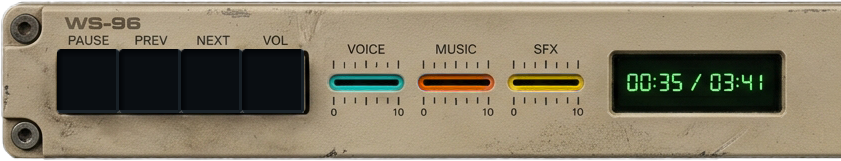
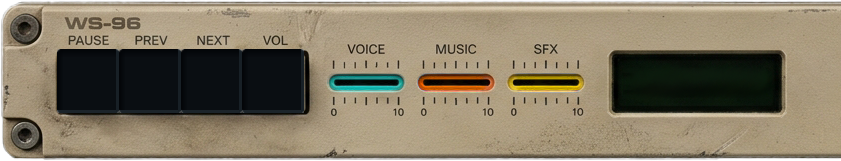
feat(ui): clean LCD texture, embed DSEG7 digital font and add sliding HUD autohide with overmove easing

Changed region(s): [[0.742, 0.4348, 0.9275, 0.5901]]

diff --git a/repo/index.html b/repo/index.html
@@ -1,0 +1,47 @@
+<!DOCTYPE html>
+<html lang="ru">
+<head>
+  <meta charset="UTF-8">
+  <meta name="viewport" content="width=device-width, initial-scale=1.0, maximum-scale=1.0, user-scalable=no, viewport-fit=cover">
+  <title>Хроники Продакшен-Ковчега • Интерактивный фильм</title>
+  <link rel="preconnect" href="https://fonts.googleapis.com">
+  <link rel="preconnect" href="https://fonts.gstatic.com" crossorigin>
+  <link href="https://fonts.googleapis.com/css2?family=Share+Tech+Mono&family=Orbitron:wght@500;700;900&family=Inter:wght@400;600;700&display=swap" rel="stylesheet">
+  <style>
+    html, body {
+      margin: 0;
+      padding: 0;
+      width: 100%;
+      height: 100%;
+      overflow: hidden;
+      background-color: #050508;
+      font-family: 'Inter', -apple-system, BlinkMacSystemFont, sans-serif;
+      user-select: none;
+      -webkit-user-select: none;
+      touch-action: none;
+    }
+    #game-canvas {
+      position: absolute;
+      top: 0;
+      left: 0;
+      width: 100%;
+      height: 100%;
+      display: block;
+    }
+  </style>
+  <style>
+    @font-face {
+      font-family: 'DSEG7 Classic';
[1 lines of base64/hex data omitted]
+      font-weight: bold;
+      font-style: normal;
+      font-display: swap;
+    }
+  </style>
+</head>
+<body>
+  <video id="intro-video" playsinline muted loop preload="auto" style="position: absolute; top: 0; left: 0; width: 100%; height: 100%; object-fit: cover; opacity: 0; pointer-events: none; transition: opacity 3.0s ease-in-out; z-index: 0;"></video>
+  <canvas id="game-canvas" style="position: absolute; top: 0; left: 0; width: 100%; height: 100%; z-index: 1;"></canvas>
+  <script type="module" src="/src/main.ts"></script>
+</body>
+</html>

diff --git a/repo/src/MovieApp.ts b/repo/src/MovieApp.ts
@@ -112,9 +112,11 @@ export class MovieApp {
   private _lastClickTime = 0;
   private _lastClickPos = { x: 0, y: 0 };
 
-  // Autohide
+  // Autohide & HUD Sliding
   private _autohideTimer = 2.5;
   private _isUiHovered = false;
+  private _hudAnimState = { p: 1.0 };
+  private _hudIsVisible = true;
 
   // State & Audio
   private _currentActIndex = 0;
@@ -669,6 +671,11 @@ export class MovieApp {
 
   private _resetAutohide(): void {
     this._autohideTimer = 2.5;
+    if (!this._hudIsVisible) {
+      this._hudIsVisible = true;
+      cancelTween(this._hudAnimState);
+      tween(this._hudAnimState, { p: 1.0 }, 0.45, ease.outBack);
+    }
     if (this._app.canvas) {
       this._app.canvas.style.cursor = 'default';
     }
@@ -1269,11 +1276,17 @@ export class MovieApp {
 
     // Digital LCD Screen
     const lcdStyle = new TextStyle({
-      fontFamily: ['Share Tech Mono', 'Courier New', 'monospace'],
-      fontSize: 16,
+      fontFamily: ['DSEG7 Classic', 'Share Tech Mono', 'monospace'],
+      fontSize: 14,
       fontWeight: 'bold',
-      fill: '#33ff77',
+      fill: '#8be194',
       letterSpacing: 2,
+      dropShadow: {
+        alpha: 0.55,
+        blur: 3,
+        color: '#33ff77',
+        distance: 0,
+      },
     });
     this._wsLcdText = new Text({ text: '00:00 / 00:00', style: lcdStyle });
     this._wsLcdText.anchor.set(0.5, 0.5);
@@ -2198,21 +2211,43 @@ export class MovieApp {
     const progress = Math.min(1, currentTime / Math.max(1, this._actDuration));
     this._renderProgressBar(progress);
 
-    // YouTube Autohide HUD logic
+    // Autohide HUD sliding logic (crawling away with easing & overmove)
     if (this._isPlaying && !this._isUiHovered && !this._isTimelineDragging) {
       this._autohideTimer = Math.max(0, this._autohideTimer - dt);
+      if (this._autohideTimer <= 0 && this._hudIsVisible) {
+        this._hudIsVisible = false;
+        cancelTween(this._hudAnimState);
+        tween(this._hudAnimState, { p: 0.0 }, 0.55, ease.inBack);
+      }
     } else {
+      if (!this._hudIsVisible) {
+        this._hudIsVisible = true;
+        cancelTween(this._hudAnimState);
+        tween(this._hudAnimState, { p: 1.0 }, 0.45, ease.outBack);
+      }
       this._autohideTimer = 2.5;
     }
 
-    const targetAlpha = this._autohideTimer > 0 ? 1.0 : 0.0;
-    this._playerBarContainer.alpha += (targetAlpha - this._playerBarContainer.alpha) * Math.min(1, dt * 7);
-    this._badgeText.alpha = this._playerBarContainer.alpha;
-    this._titleText.alpha = this._playerBarContainer.alpha;
-    this._subtitleText.alpha = this._playerBarContainer.alpha;
+    const p = this._hudAnimState.p;
+    const barH = 161 * this._wsGuiScale;
+    const baseY = this._screenHeight - barH;
+    const hiddenY = this._screenHeight + 24;
+    const currentBarY = hiddenY + (baseY - hiddenY) * p;
+    this._playerBarContainer.position.set(0, currentBarY);
+
+    // Subtle fade of bottom vignette backdrop in sync with HUD
+    this._vignetteGraphics.alpha = Math.max(0, Math.min(0.9, p * 0.9));
+
+    // Top headers slide slightly upwards with matching curve
+    const headerP = Math.max(0, Math.min(1, p));
+    const headerOffset = (1 - headerP) * -80;
+    const isPortrait = this._screenHeight > this._screenWidth;
+    this._badgeText.position.set(24, 14 + headerOffset);
+    this._titleText.position.set(24, 32 + headerOffset);
+    this._subtitleText.position.set(24, (isPortrait ? 54 : 58) + headerOffset);
 
     if (this._app.canvas) {
-      if (this._playerBarContainer.alpha < 0.05 && this._isPlaying) {
+      if (!this._hudIsVisible && p <= 0.05 && this._isPlaying) {
         this._app.canvas.style.cursor = 'none';
       } else {
         this._app.canvas.style.cursor = 'default';
@@ -2478,8 +2513,12 @@ export class MovieApp {
     this._vignetteGraphics.clear();
     this._vignetteGraphics.rect(0, h - barH - 24, w, barH + 24);
     this._vignetteGraphics.fill({ color: 0x050508, alpha: 0.9 });
+    this._vignetteGraphics.alpha = Math.max(0, Math.min(0.9, this._hudAnimState.p * 0.9));
 
-    this._playerBarContainer.position.set(0, h - barH);
+    const baseY = h - barH;
+    const hiddenY = h + 24;
+    const currentBarY = hiddenY + (baseY - hiddenY) * this._hudAnimState.p;
+    this._playerBarContainer.position.set(0, currentBarY);
 
     if (this._wsConsoleContainer) {
       // Left Wing (Fixed proportions, scaled)

diff --git a/repo/src/tween.ts b/repo/src/tween.ts
@@ -7,7 +7,15 @@ export const ease = {
   inOutQuad: (t: number) => (t < 0.5 ? 2 * t * t : 1 - Math.pow(-2 * t + 2, 2) / 2),
   outCubic: (t: number) => 1 - Math.pow(1 - t, 3),
   inOutCubic: (t: number) => (t < 0.5 ? 4 * t * t * t : 1 - Math.pow(-2 * t + 2, 3) / 2),
-  outBack: (t: number) => 1 + 2.7 * Math.pow(t - 1, 3) + 1.7 * Math.pow(t - 1, 2),
+  inBack: (t: number) => {
+    const s = 1.70158;
+    return t * t * ((s + 1) * t - s);
+  },
+  outBack: (t: number) => {
+    const s = 1.70158;
+    const t1 = t - 1;
+    return t1 * t1 * ((s + 1) * t1 + s) + 1;
+  },
   inOutSine: (t: number) => -(Math.cos(Math.PI * t) - 1) / 2,
 };
 

diff --git a/tools/extract_gui_assets.py b/tools/extract_gui_assets.py
@@ -12,30 +12,53 @@ psd = PSDImage.open(PSD_PATH)
 
 print('Extracting from PSD...')
 
-# 1. Left Chassis
-l0 = psd[0].composite()
+# 1. Left Chassis:
+# Layer 0 is (33, 24, 874, 185) -> size (841, 161)
+l0 = psd[0].composite() # RGBA
+
+# Paste the 4 playback button holes at (57, 49)
+hole_4slots = Image.open(os.path.join(EXISTING_GUI, 'gui_hole_playback_4slots.png'))
+l0.paste(hole_4slots, (57, 49), hole_4slots)
+
+# Composite Layer 6 (LCD bezel and clean dark screen glass) at (607, 50)
+# NOTE: DO NOT composite Layer 7 (baked digits) so the dial screen stays clean!
+l6 = psd[6].composite()
+l0.paste(l6, (607, 50), l6)
 l0.save(os.path.join(OUT_DIR, 'gui_chassis_left.png'))
+print('Saved gui_chassis_left.png with clean LCD screen and button sockets:', l0.size)
 
-# 2. Right Chassis
+# 2. Right Chassis:
+# Layer 5 is (1455, 24, 1801, 184) -> size (346, 160)
 l5 = psd[5].composite()
+# Composite Layer 19 sub 0 (the socket housing with 2 holes for CC & Mode!)
+# Layer 19 sub 0 is at (1611, 72, 1738, 137) -> x=1611-1455=156, y=72-24=48
+l19_sub0 = psd[19][0].composite()
+l5.paste(l19_sub0, (156, 48), l19_sub0)
 l5.save(os.path.join(OUT_DIR, 'gui_chassis_right.png'))
+print('Saved gui_chassis_right.png with CC/Mode socket well:', l5.size)
 
-# 3. Middle Chassis Tile (smooth slice of retro plastic)
+# 3. Middle Chassis:
+# Layer 4 is (874, 24, 1457, 185) -> size (583, 161)
 l4 = psd[4].composite()
-# Crop a 160px wide tile from Layer 4
-mid_tile = l4.crop((100, 0, 260, l4.height))
-mid_tile.save(os.path.join(OUT_DIR, 'gui_chassis_mid.png'))
+l4.save(os.path.join(OUT_DIR, 'gui_chassis_mid.png'))
+print('Saved gui_chassis_mid.png (583x161 plate):', l4.size)
 
-# 4. Progress Slider Track
-l8 = psd[8].composite()
-l8.save(os.path.join(OUT_DIR, 'gui_slider_track.png'))
+# 4. Progress Slider Track: 3-piece slice (fixed left cap, stretched mid, fixed right cap)
+l8 = psd[8].composite() # (300, 39)
+cap_left = l8.crop((0, 0, 25, 39))
+cap_left.save(os.path.join(OUT_DIR, 'gui_track_cap_left.png'))
+mid_track = l8.crop((25, 0, 275, 39))
+mid_track.save(os.path.join(OUT_DIR, 'gui_track_mid.png'))
+cap_right = l8.crop((275, 0, 300, 39))
+cap_right.save(os.path.join(OUT_DIR, 'gui_track_cap_right.png'))
+print('Saved 3-part timeline track (cap_left 25px, mid 250px, cap_right 25px)')
 
 # 5. Timeline Scrubber Knob (Layer 9)
 l9 = psd[9].composite()
 l9.save(os.path.join(OUT_DIR, 'gui_knob_timeline.png'))
 
 # 6. Volume Knobs
-# Layer 22 (Voice, cyan tint or yellow), Layer 21 (Music), Layer 20 (SFX)
+# Layer 22 (Voice), Layer 21 (Music), Layer 20 (SFX)
 l22 = psd[22].composite()
 l22.save(os.path.join(OUT_DIR, 'gui_knob_voice.png'))
 l21 = psd[21].composite()
@@ -58,35 +81,29 @@ for btn_name in ['gui_btn_pause.png', 'gui_btn_prev.png', 'gui_btn_next.png', 'g
         print(f'Copied {btn_name}')
 
 # Create Play button variant from Pause button:
-# A keycap with a play triangle instead of two pause bars
 pause_im = Image.open(os.path.join(OUT_DIR, 'gui_btn_pause.png'))
 play_im = pause_im.copy()
-# Draw play triangle in center
 draw = ImageDraw.Draw(play_im)
-# Center of button is roughly (31, 30)
-# Button size: 62 x 64
 cx, cy = 31, 30
-# Fill center area with keycap beige color before drawing triangle
 draw.rectangle((cx - 12, cy - 12, cx + 12, cy + 12), fill=(150, 142, 124, 255))
 draw.polygon([(cx - 7, cy - 9), (cx - 7, cy + 9), (cx + 8, cy)], fill=(28, 25, 20, 255))
 play_im.save(os.path.join(OUT_DIR, 'gui_btn_play.png'))
 print('Created gui_btn_play.png')
 
 # 9. Extract all 9 LEDs from PSD
-# LED layers sorted by x coordinate:
 led_indices = [10, 12, 13, 14, 15, 16, 17, 11, 18]
 for i, idx in enumerate(led_indices):
     led_img = psd[idx].composite()
     led_img.save(os.path.join(OUT_DIR, f'gui_led_{i+1}.png'))
 
-# Also create a generic inactive (dim) LED
-inactive_led = psd[12].composite() # Layer 12 is a dim gray LED
+# Generic inactive (dim) LED
+inactive_led = psd[12].composite()
 inactive_led.save(os.path.join(OUT_DIR, 'gui_led_dim.png'))
 
-# Also copy existing colored LEDs
+# Colored LEDs
 for led in ['gui_led_purple.png', 'gui_led_orange.png', 'gui_led_red.png', 'gui_led_yellow.png']:
     src = os.path.join(EXISTING_GUI, led)
     if os.path.exists(src):
         shutil.copy(src, os.path.join(OUT_DIR, led))
 
-print('All assets extracted to', OUT_DIR)
+print('All assets extracted successfully to', OUT_DIR)
